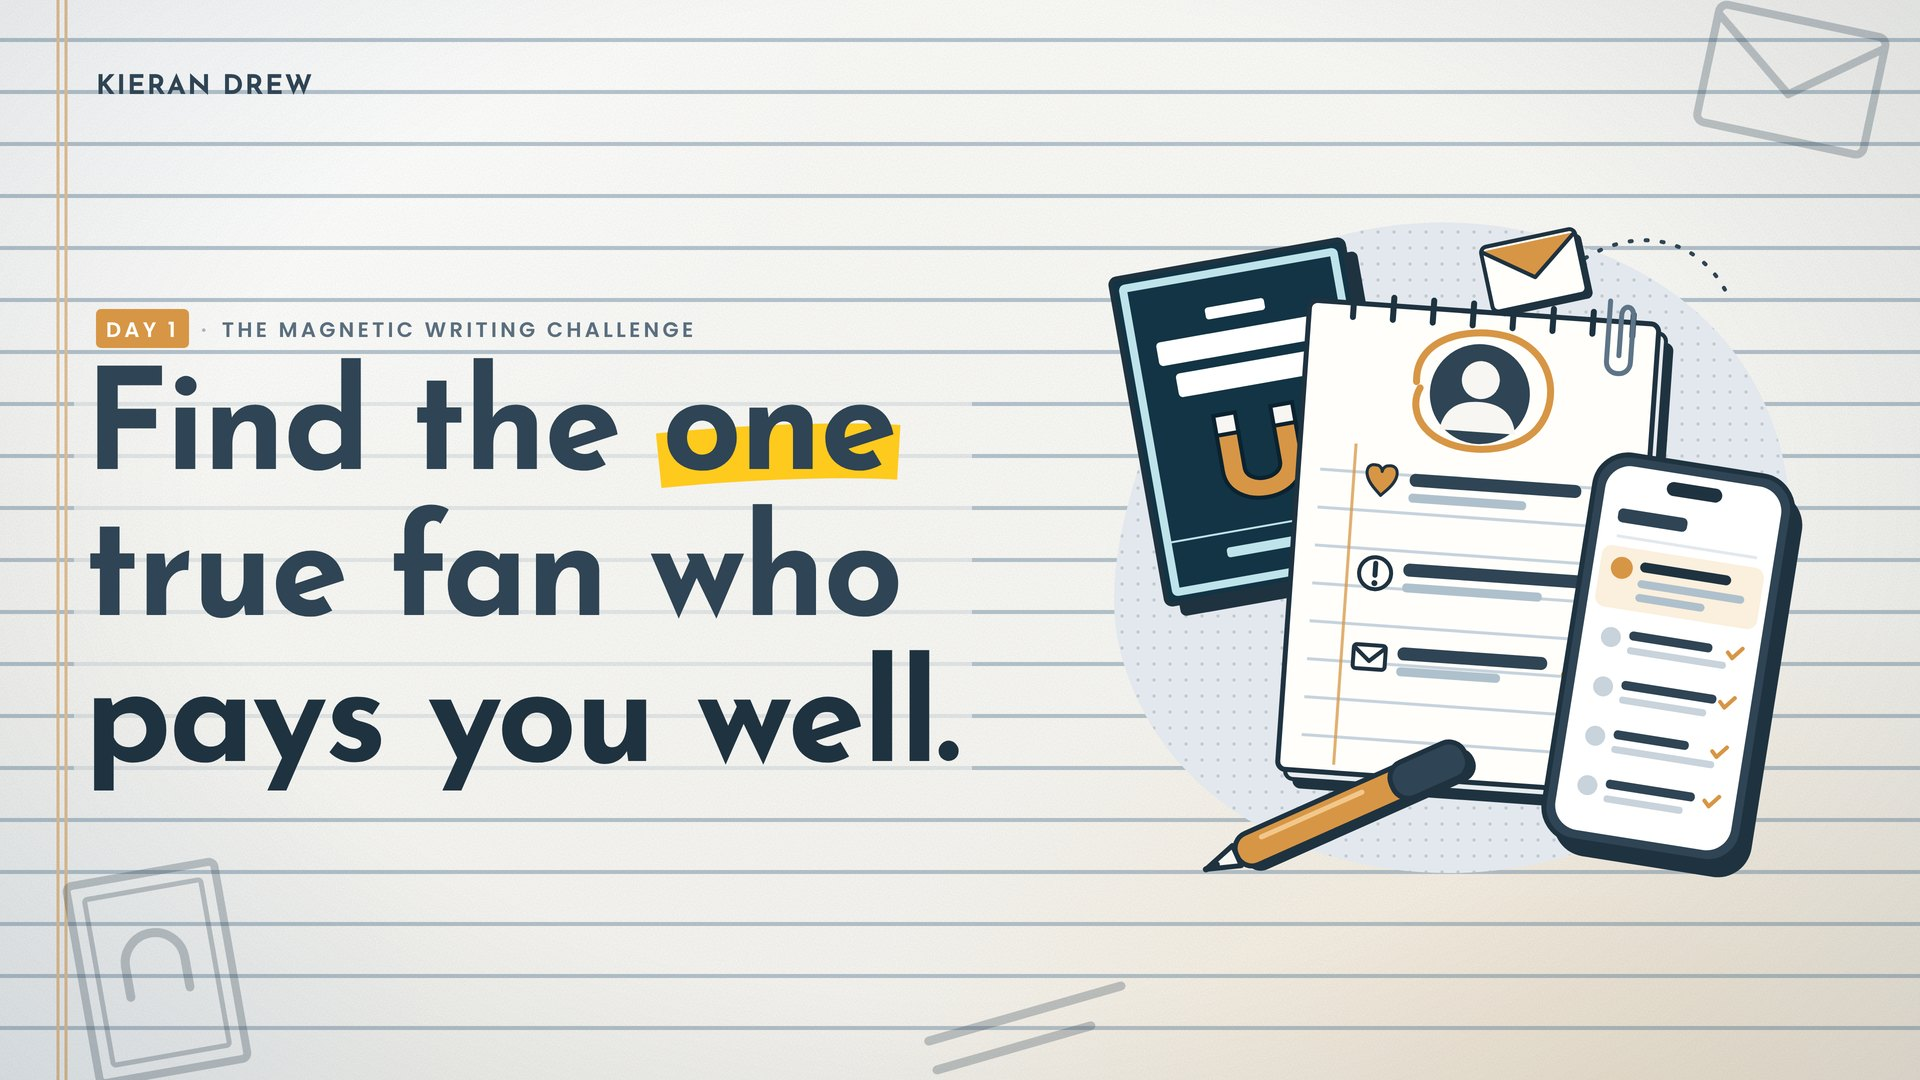
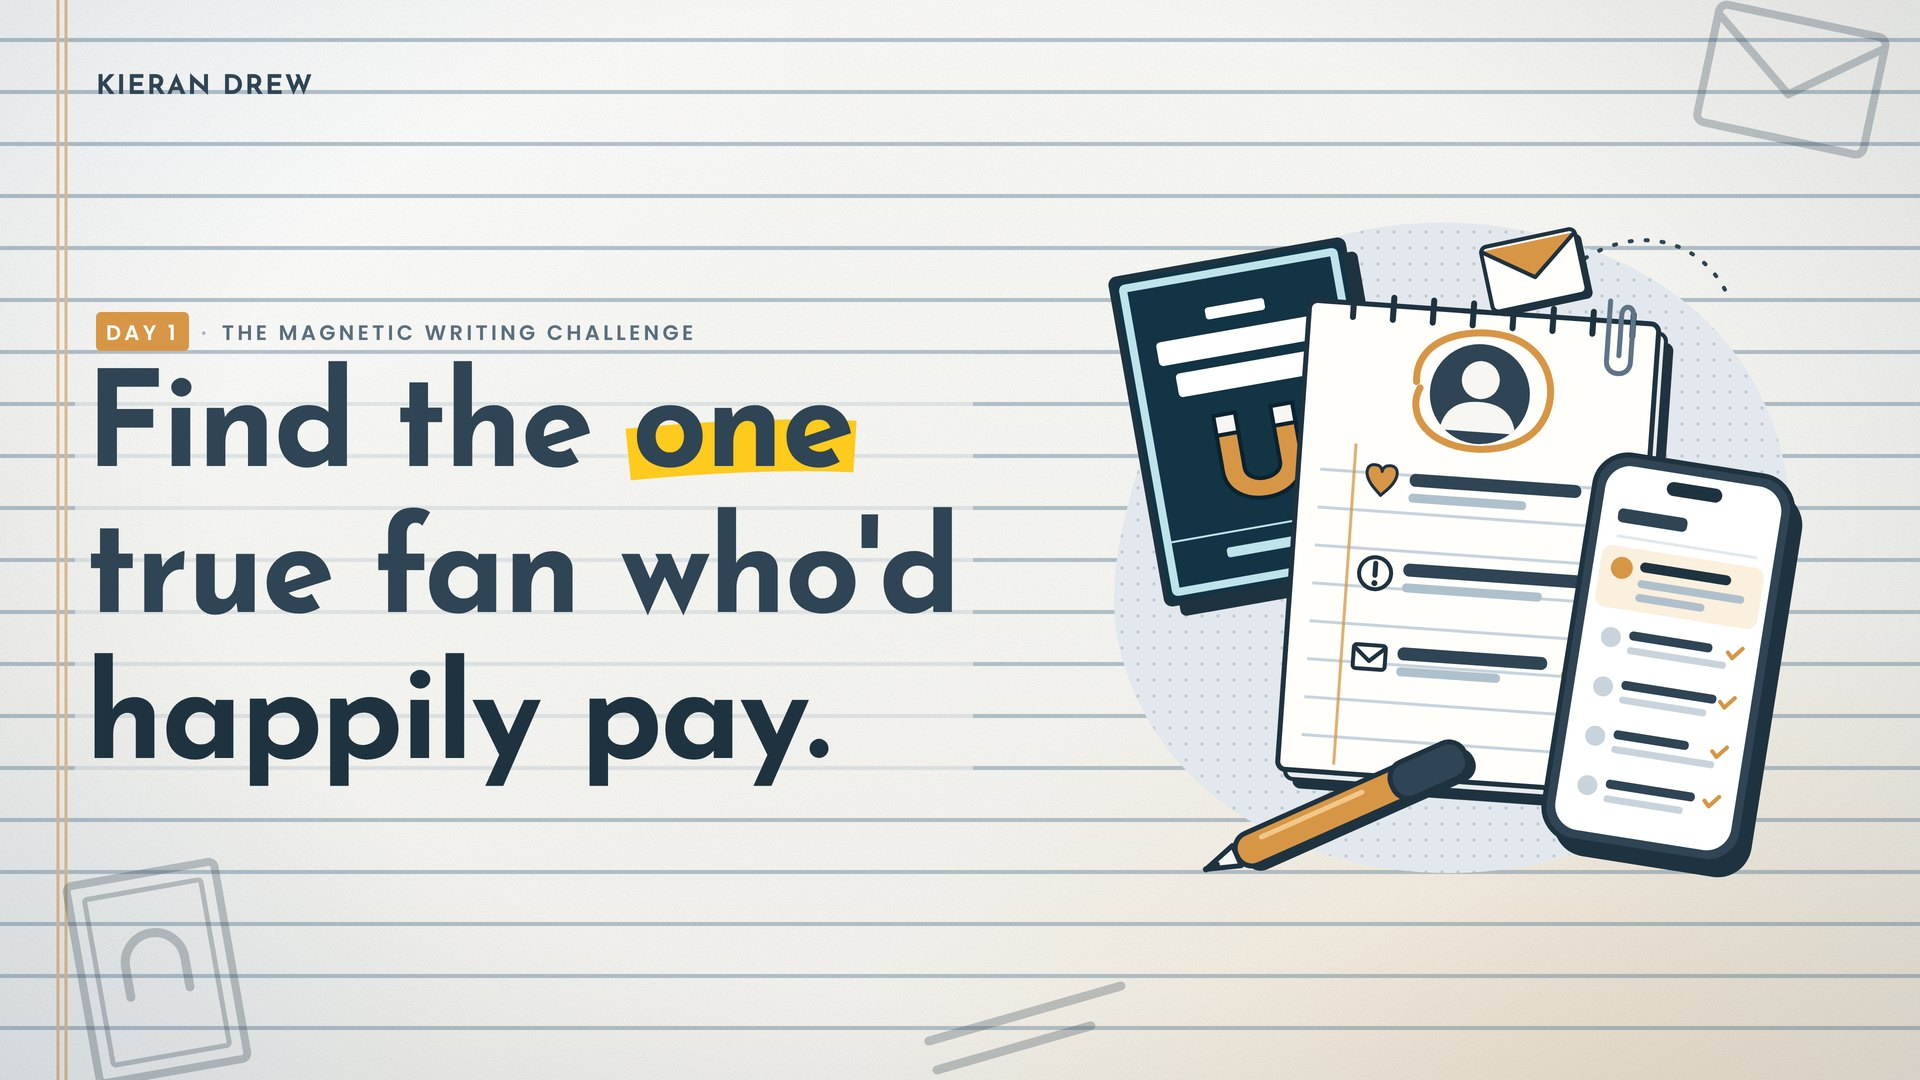
Kieran Drew: Day 1 and Day 3 titles

Changed region(s): [[0.0625, 0.275, 0.5, 0.7333], [0.0312, 0.7028, 0.0625, 0.7333], [0.0312, 0.6111, 0.0625, 0.6417]]

diff --git a/kieran-drew/index.html b/kieran-drew/index.html
@@ -585,7 +585,7 @@ section.s{padding:116px 0}
         </div>
       </div>
       <div class="book">
-        <div class="mini"><img src="img/slide.jpg" alt="Day 1 slide: Find the one true fan who pays you well"></div>
+        <div class="mini"><img src="img/slide.jpg" alt="Day 1 slide: Find the one true fan who'd happily pay"></div>
         <div>
           <p class="k">Pop in your details <span aria-hidden="true">/</span> <b>Free</b></p>
           <h3><span class="nw">Join the free 3-day</span> <span class="nw">Magnetic Writing Challenge.</span></h3>
@@ -638,7 +638,7 @@ section.s{padding:116px 0}
     <div class="head rv">
       <p class="lbl">The three days, live online</p>
       <h2 class="disp">Grab a cup of tea. <span class="nw">Here's the plan.</span></h2>
-      <p>Day 1 you find the one true fan who pays you well. Day 2 you turn what you know into ideas that sell. Day 3 you write and publish one essay that sells without selling.</p>
+      <p>Day 1 you find the one true fan who'd happily pay you. Day 2 you turn what you know into ideas that sell. Day 3 you write and publish the essay that sells for you.</p>
     </div>
 
     <div class="tl">
@@ -646,7 +646,7 @@ section.s{padding:116px 0}
         <div class="node"><div><small>Day</small><b>1</b></div></div>
         <div class="dtext">
           <span class="dwhen"><span class="dd" data-day="0">Tue Jan 12</span><i></i><span class="dt" data-day="0">12:00 PM ET</span></span>
-          <h3 class="disp"><span class="nw">Find the one</span><span class="nw">true fan who</span><span class="nw">pays you well.</span></h3>
+          <h3 class="disp"><span class="nw">Find the one</span><span class="nw">true fan who'd</span><span class="nw">happily pay you.</span></h3>
           <p class="out">Name the one reader you write for, and the problem they'd happily pay you to fix.</p>
           <p class="det">Why does most writing get ignored? Because it's written for everyone. So we pick one reader, their problem and where they already read. Then you write every piece for that one person.</p>
         </div>
@@ -693,7 +693,7 @@ section.s{padding:116px 0}
         <div class="node"><div><small>Day</small><b>3</b></div></div>
         <div class="dtext">
           <span class="dwhen"><span class="dd" data-day="2">Thu Jan 14</span><i></i><span class="dt" data-day="2">12:00 PM ET</span></span>
-          <h3 class="disp"><span class="nw">Write one essay</span><span class="nw">that sells</span><span class="nw">without selling.</span></h3>
+          <h3 class="disp"><span class="nw">Write the essay</span><span class="nw">that sells</span><span class="nw">for you.</span></h3>
           <p class="out">One essay from your best Pillar Idea, with a clear next step to your offer, published before we hang up.</p>
           <p class="det">We write it together, hook first, so your true fan stops scrolling, and end it on an invitation to your newsletter, waitlist or offer. Then you hit publish while we're still live.</p>
         </div>
@@ -800,7 +800,7 @@ section.s{padding:116px 0}
       <div class="dbody">
         <div class="drow"><div class="dtxt"><p class="dday">Day 1 <span>Tue Jan 12</span></p><p class="dline"><del>Writing for everyone while your posts sink into the abyss</del><br><ins>Writing to your One True Fan, the one person who'd happily pay you</ins></p></div><div class="dcom"><div class="dch"><img src="img/headshot.jpg" alt=""><b>Kieran</b><span>Day 1</span></div><p>Write to one person and the right people feel seen. Everyone else just reads over their shoulder.</p></div></div>
         <div class="drow"><div class="dtxt"><p class="dday">Day 2 <span>Wed Jan 13</span></p><p class="dline"><del>Pulled in 10 directions by every guru's strategy</del><br><ins>Working from a short list of Pillar Ideas that lead to what you sell</ins></p></div><div class="dcom"><div class="dch"><img src="img/headshot.jpg" alt=""><b>Kieran</b><span>Day 2</span></div><p>The ideas you'd argue for down the pub are the ones people remember. We find yours.</p></div></div>
-        <div class="drow"><div class="dtxt"><p class="dday">Day 3 <span>Thu Jan 14</span></p><p class="dline"><del>Chasing impressions with the same templates as everyone else</del><br><ins>Publishing one magnetic essay that sells without selling</ins></p></div><div class="dcom"><div class="dch"><img src="img/headshot.jpg" alt=""><b>Kieran</b><span>Day 3</span></div><p>We hit publish together on the call, so nobody chickens out.</p></div></div>
+        <div class="drow"><div class="dtxt"><p class="dday">Day 3 <span>Thu Jan 14</span></p><p class="dline"><del>Chasing impressions with the same templates as everyone else</del><br><ins>Publishing the magnetic essay that sells for you</ins></p></div><div class="dcom"><div class="dch"><img src="img/headshot.jpg" alt=""><b>Kieran</b><span>Day 3</span></div><p>We hit publish together on the call, so nobody chickens out.</p></div></div>
       </div>
       <div class="dfoot"><span>3 suggestions</span><b>Accept all</b></div>
     </div>
@@ -849,7 +849,7 @@ section.s{padding:116px 0}
       <div class="cr">
         <span class="cpill"><i></i>Free / Three days / Live online</span>
         <h2 class="disp">Join the free 3-day <span class="nw">Magnetic Writing</span> <span class="nw">Challenge.</span></h2>
-        <p class="s2">If you like the way I write and build, I'd love to have you in the room. Three days live: your one true fan, your Pillar Ideas and one essay that sells without selling. But if not, then all good.</p>
+        <p class="s2">If you like the way I write and build, I'd love to have you in the room. Three days live: your one true fan, your Pillar Ideas and the essay that sells for you. But if not, then all good.</p>
         <form class="fields" id="form" action="vip/" method="get" autocomplete="off">
           <label><input id="fName" type="text" placeholder="First name" aria-label="First name"></label>
           <label><input type="email" placeholder="Email address" aria-label="Email address"></label>
@@ -908,7 +908,7 @@ section.s{padding:116px 0}
 
   /* floating vertical video: after the hero, never over the sign-up */
   var st=document.getElementById('stick'),scap=st.querySelector('.cap'),hero=document.getElementById('hero'),join=document.getElementById('join'),si=0;
-  var caps=['The <b>60 second version</b> of the three days.','Day 1: <b>find the one true fan who pays you well</b>','Day 2: <b>turn what you know into ideas that sell</b>','Day 3: <b>write one essay that sells without selling</b>','It is free (and awesome), live with <b>Kieran</b>.'];
+  var caps=['The <b>60 second version</b> of the three days.','Day 1: <b>find the one true fan who\'d happily pay you</b>','Day 2: <b>turn what you know into ideas that sell</b>','Day 3: <b>write the essay that sells for you</b>','It is free (and awesome), live with <b>Kieran</b>.'];
   function snext(){scap.style.opacity=0;setTimeout(function(){scap.innerHTML=caps[si%caps.length];si++;scap.style.opacity=1},300)}
   snext();setInterval(snext,3800);
   function stick(){var hb=hero.getBoundingClientRect(),j=join.getBoundingClientRect();st.classList.toggle('on',hb.bottom<90&&!(j.top<innerHeight&&j.bottom>0))}
